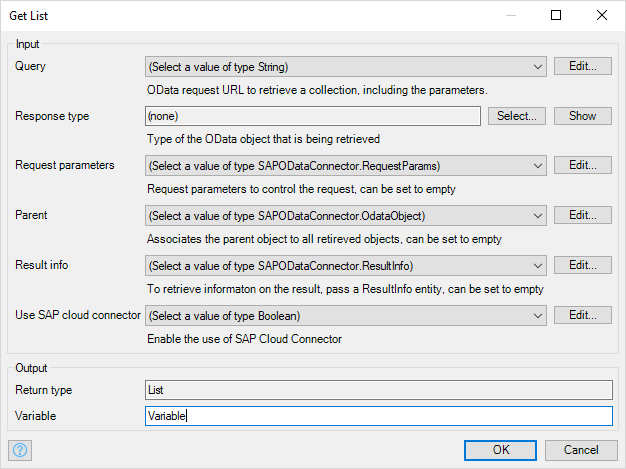
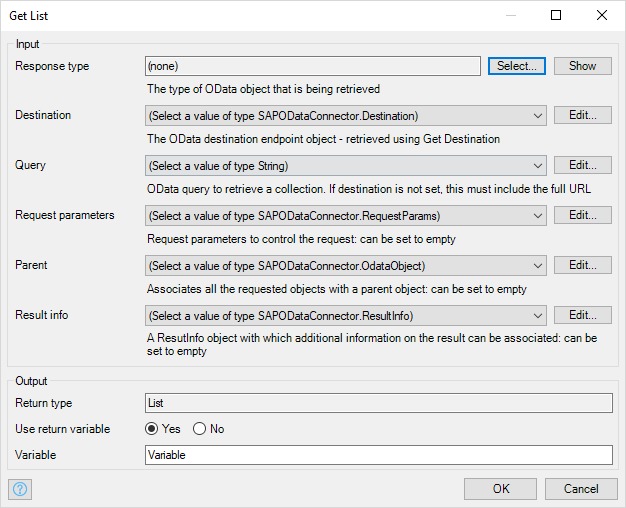
Initial changes

diff --git a/content/refguide/sap/sap-odata-connector.md b/content/refguide/sap/sap-odata-connector.md
@@ -12,13 +12,17 @@ This reference guide describes the actions and domain model of the SAP OData Con
 
 The SAP OData Connector is an OData connector written specifically to integrate with SAP back-end systems like SAP Business Suite (SAP ERP 6.0), SAP S/4HANA, SAP S/4HANA Cloud, and SAP SuccessFactors. The SAP OData Connector can be used for all SAP back-end systems that have OData enabled, both in the cloud and on-premises. For ECC, SAP Gateway will be used to expose the traditional BAPI interface as an OData service.
 
-When running the Mendix application in SAP Cloud Platform, you can choose to use the SAP Cloud Platform cloud connector to gain access to your on-premises SAP instance. If you choose to use the SAP Cloud Platform cloud connector, this will invoke the SAP Connectivity Service in the SAP Cloud Platform to find a route to your private SAP OData service. This route is configured from the SAP Cloud Connector running as an agent in your on-premises SAP back-end. If no route is configured, the SAP OData Connector will route requests to the public OData service. For more information, see the [SAP Cloud Connector](sap-cloud-connector) documentation and the [SAP OData Connector](https://appstore.home.mendix.com/link/app/74525/Mendix/SAP-OData-Connector) in the Mendix App Store.
-
 ![](attachments/sap-odata-connector/appstore-sapodata.png)
 
-The SAP OData Connector can be used for example in combination with an SAP Data Model of an SAP Fiori Cloud app. For more details, see [SAP Data Models](sap-data-models). Alternatively, you can generate a data model from the metadata of your OData service, exposed from your SAP back-end system. For more details see [How to Use the SAP OData Model Creator](/howto/sap/use-sap-odata-model-creator).
+The SAP OData Connector can be used for example in combination with the SAP Data Model of an SAP Fiori Cloud app. For more details, see [SAP Data Models](sap-data-models). Alternatively, you can generate a data model from the metadata of your OData service, exposed from your SAP back-end system. For more details see [How to Use the SAP OData Model Creator](/howto/sap/use-sap-odata-model-creator).
 
 If you are new to the SAP OData Connector, you can try it out by following our how-to: [How to Use the OData Connector](/howto/sap/use-sap-odata-connector). This reference assumes that you know the details of the SAP OData service you want to use.
+
+When running the Mendix application in SAP Cloud Platform, you can choose to use SAP Destination Services to gain access to your on-premises SAP instance. SAP Destination Services can be configured to invoke the SAP Connectivity Service in the SAP Cloud Platform to find a route to your private SAP OData service. This route is configured from the SAP Cloud Connector running as an agent in your on-premises SAP back-end. If no route is configured, the SAP OData Connector will route requests to the public OData service. For more information, see the [SAP Destination Services](sap-destination-services) documentation and the [SAP OData Connector](https://appstore.home.mendix.com/link/app/74525/Mendix/SAP-OData-Connector) in the Mendix App Store.
+
+{{% alert type="info" %}}
+SAP Destination Services replaces the SAP Cloud Connector flag which was used in previous version of the SAP OData Connector
+{{% /alert %}}
 
 ## 2 Using the SAP OData Connector<a name="UsingtheSAPODataConnector"></a>
 
@@ -123,6 +127,13 @@ This domain model is part of the SAP OData Connector module and can be found in 
 * **CSRFToken** – the Cross-Site Request Forgery (CSRF) token is maintained internally and is used to prevent CSRF attacks; a CSRF token is obtained when a **Get** or **Get list** OData action is performed and is maintained for a Mendix session (or transaction context) which means that:
   * where an asynchronous or background microflow is executed (for example, using *executeMicroflowInBackground* from Community Commons) a new CSRF token must be obtained before any other actions are performed
   * where a startup microflow or scheduled event is run, the context also supports CSRF but, again, the token must be obtained before performing any other actions
+* **Destination** – Information which defines the destination when using *Destination Services*. See [SAP Destination Services](sap-destinination-services) for more information.<br />
+    There are also some entities which are used to construct the *Destination* entity. Attribute values should always be taken from the Destination entity, rather than these entities:
+    * DestinationConfiguration
+    * ConectivityInfo
+    * JsonObject
+    * AuthTokens
+    * Root
 
 ## 3 Actions<a name="Actions"></a>
 
